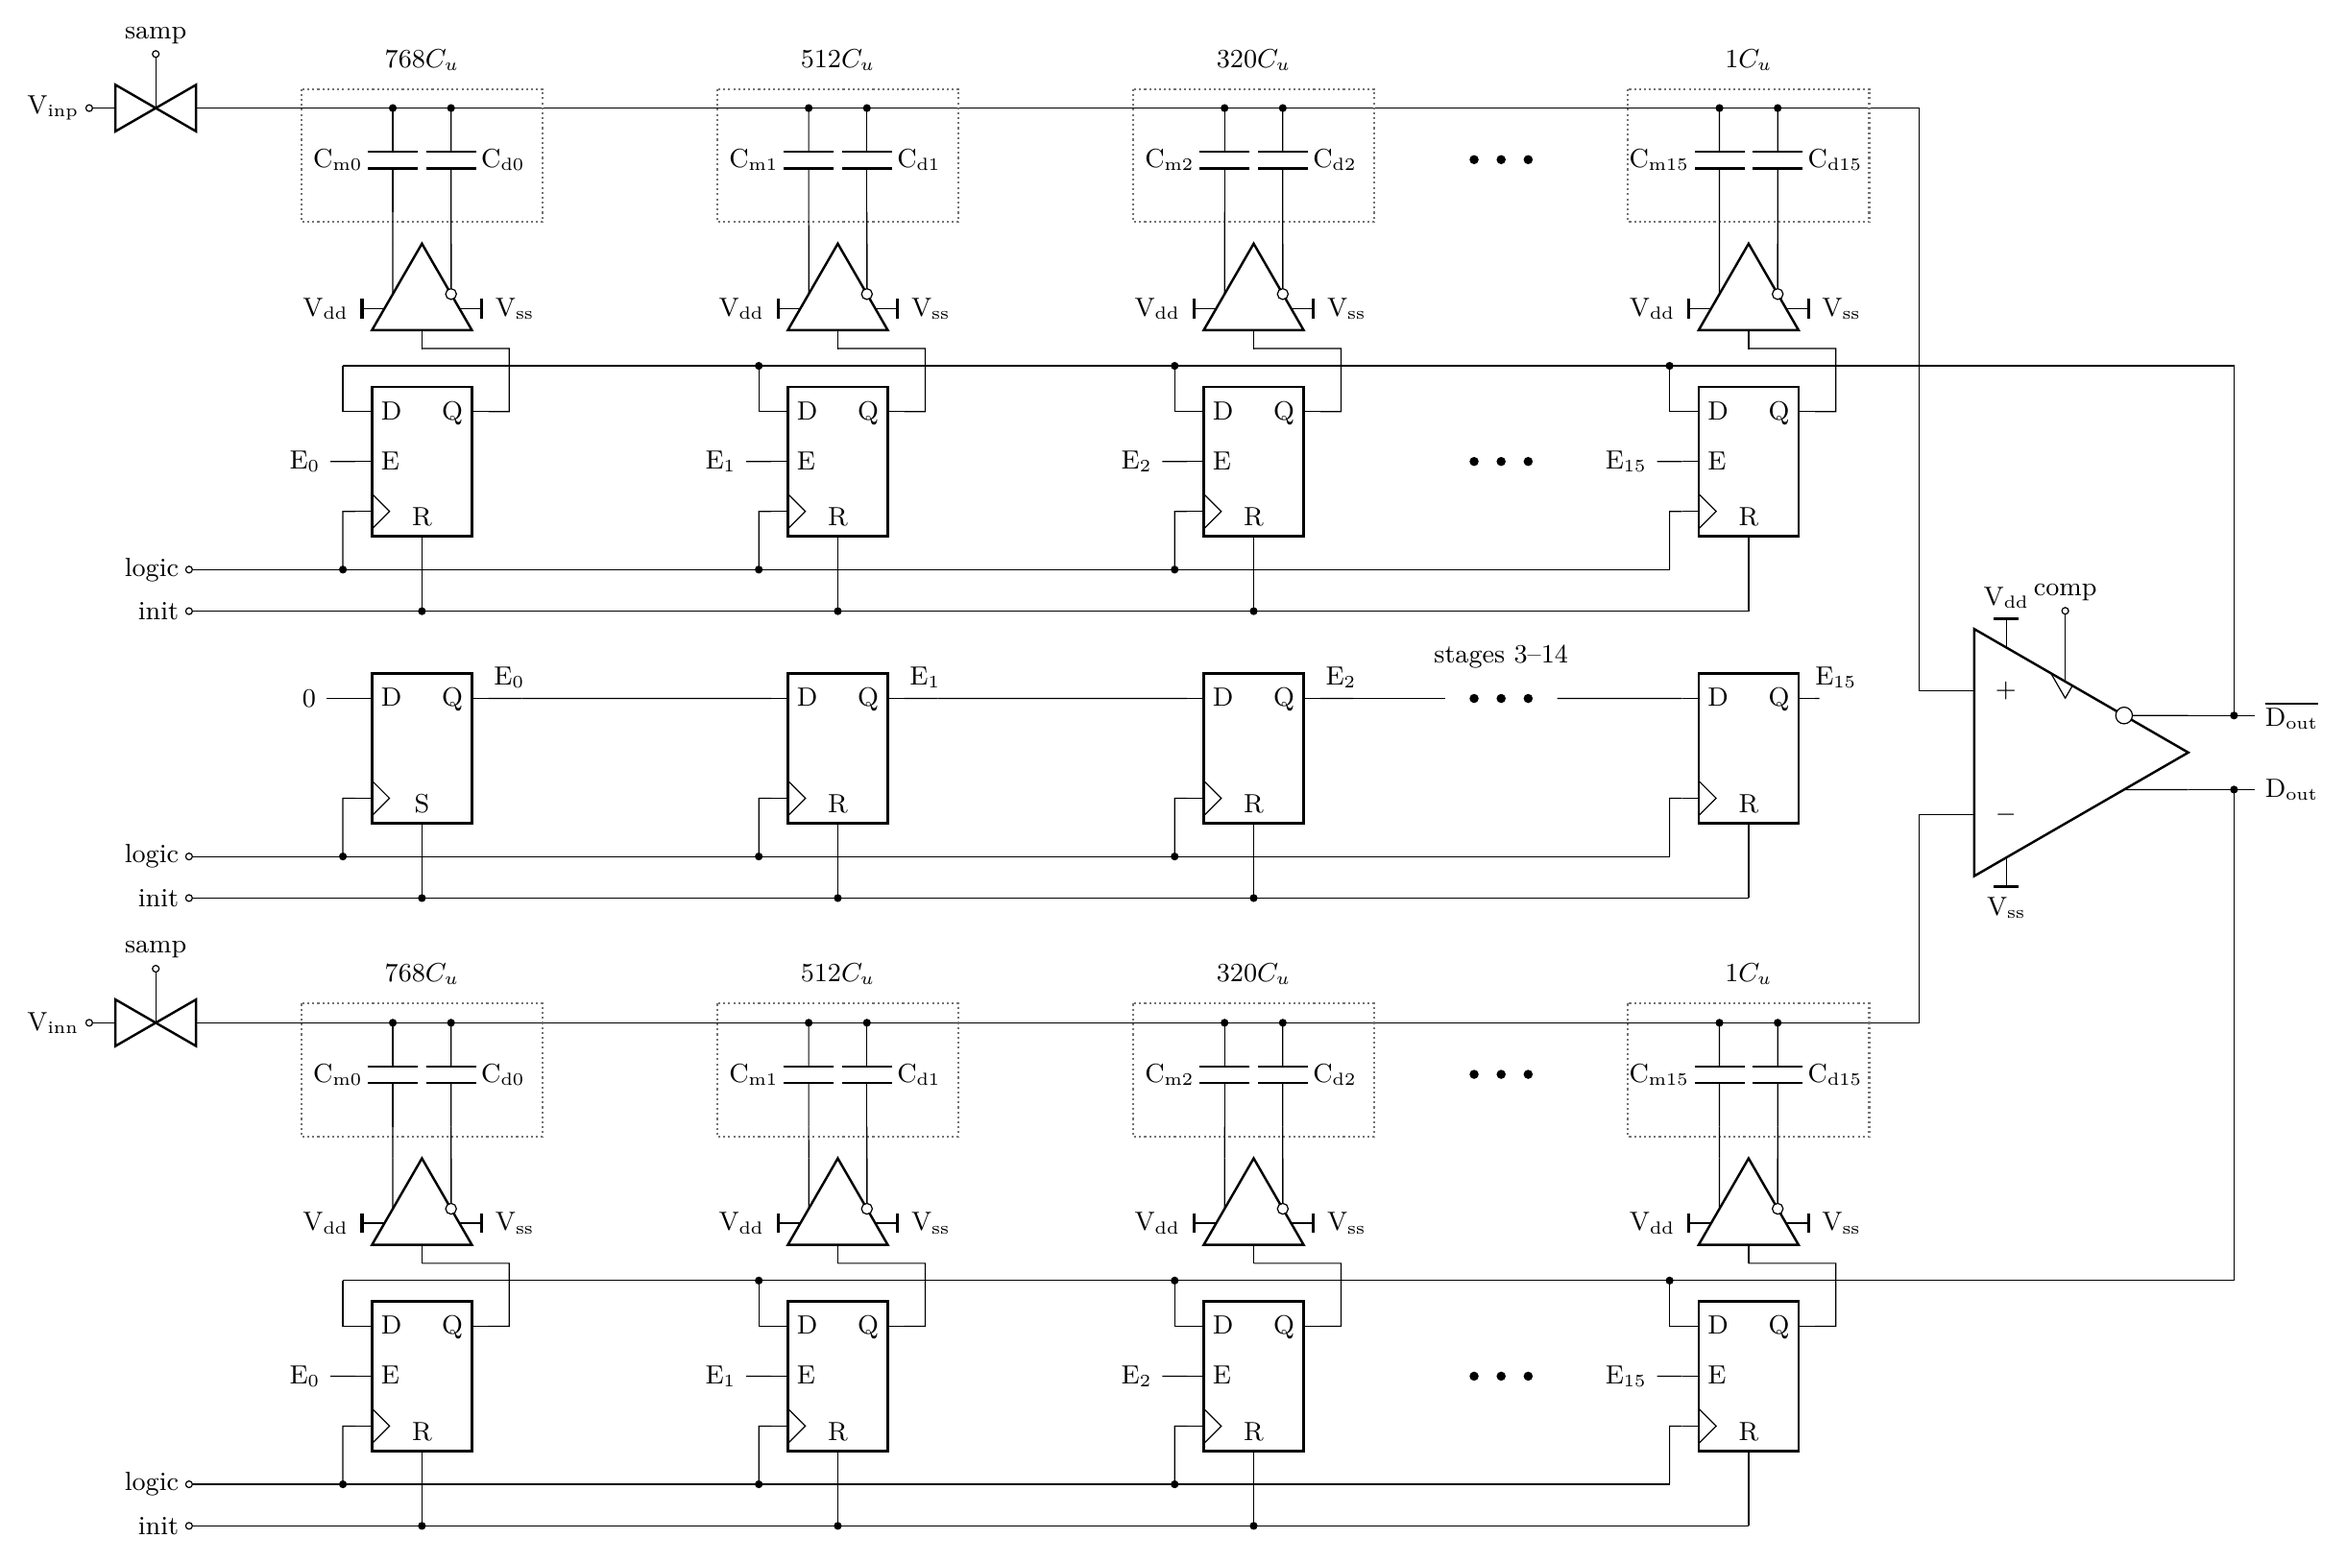
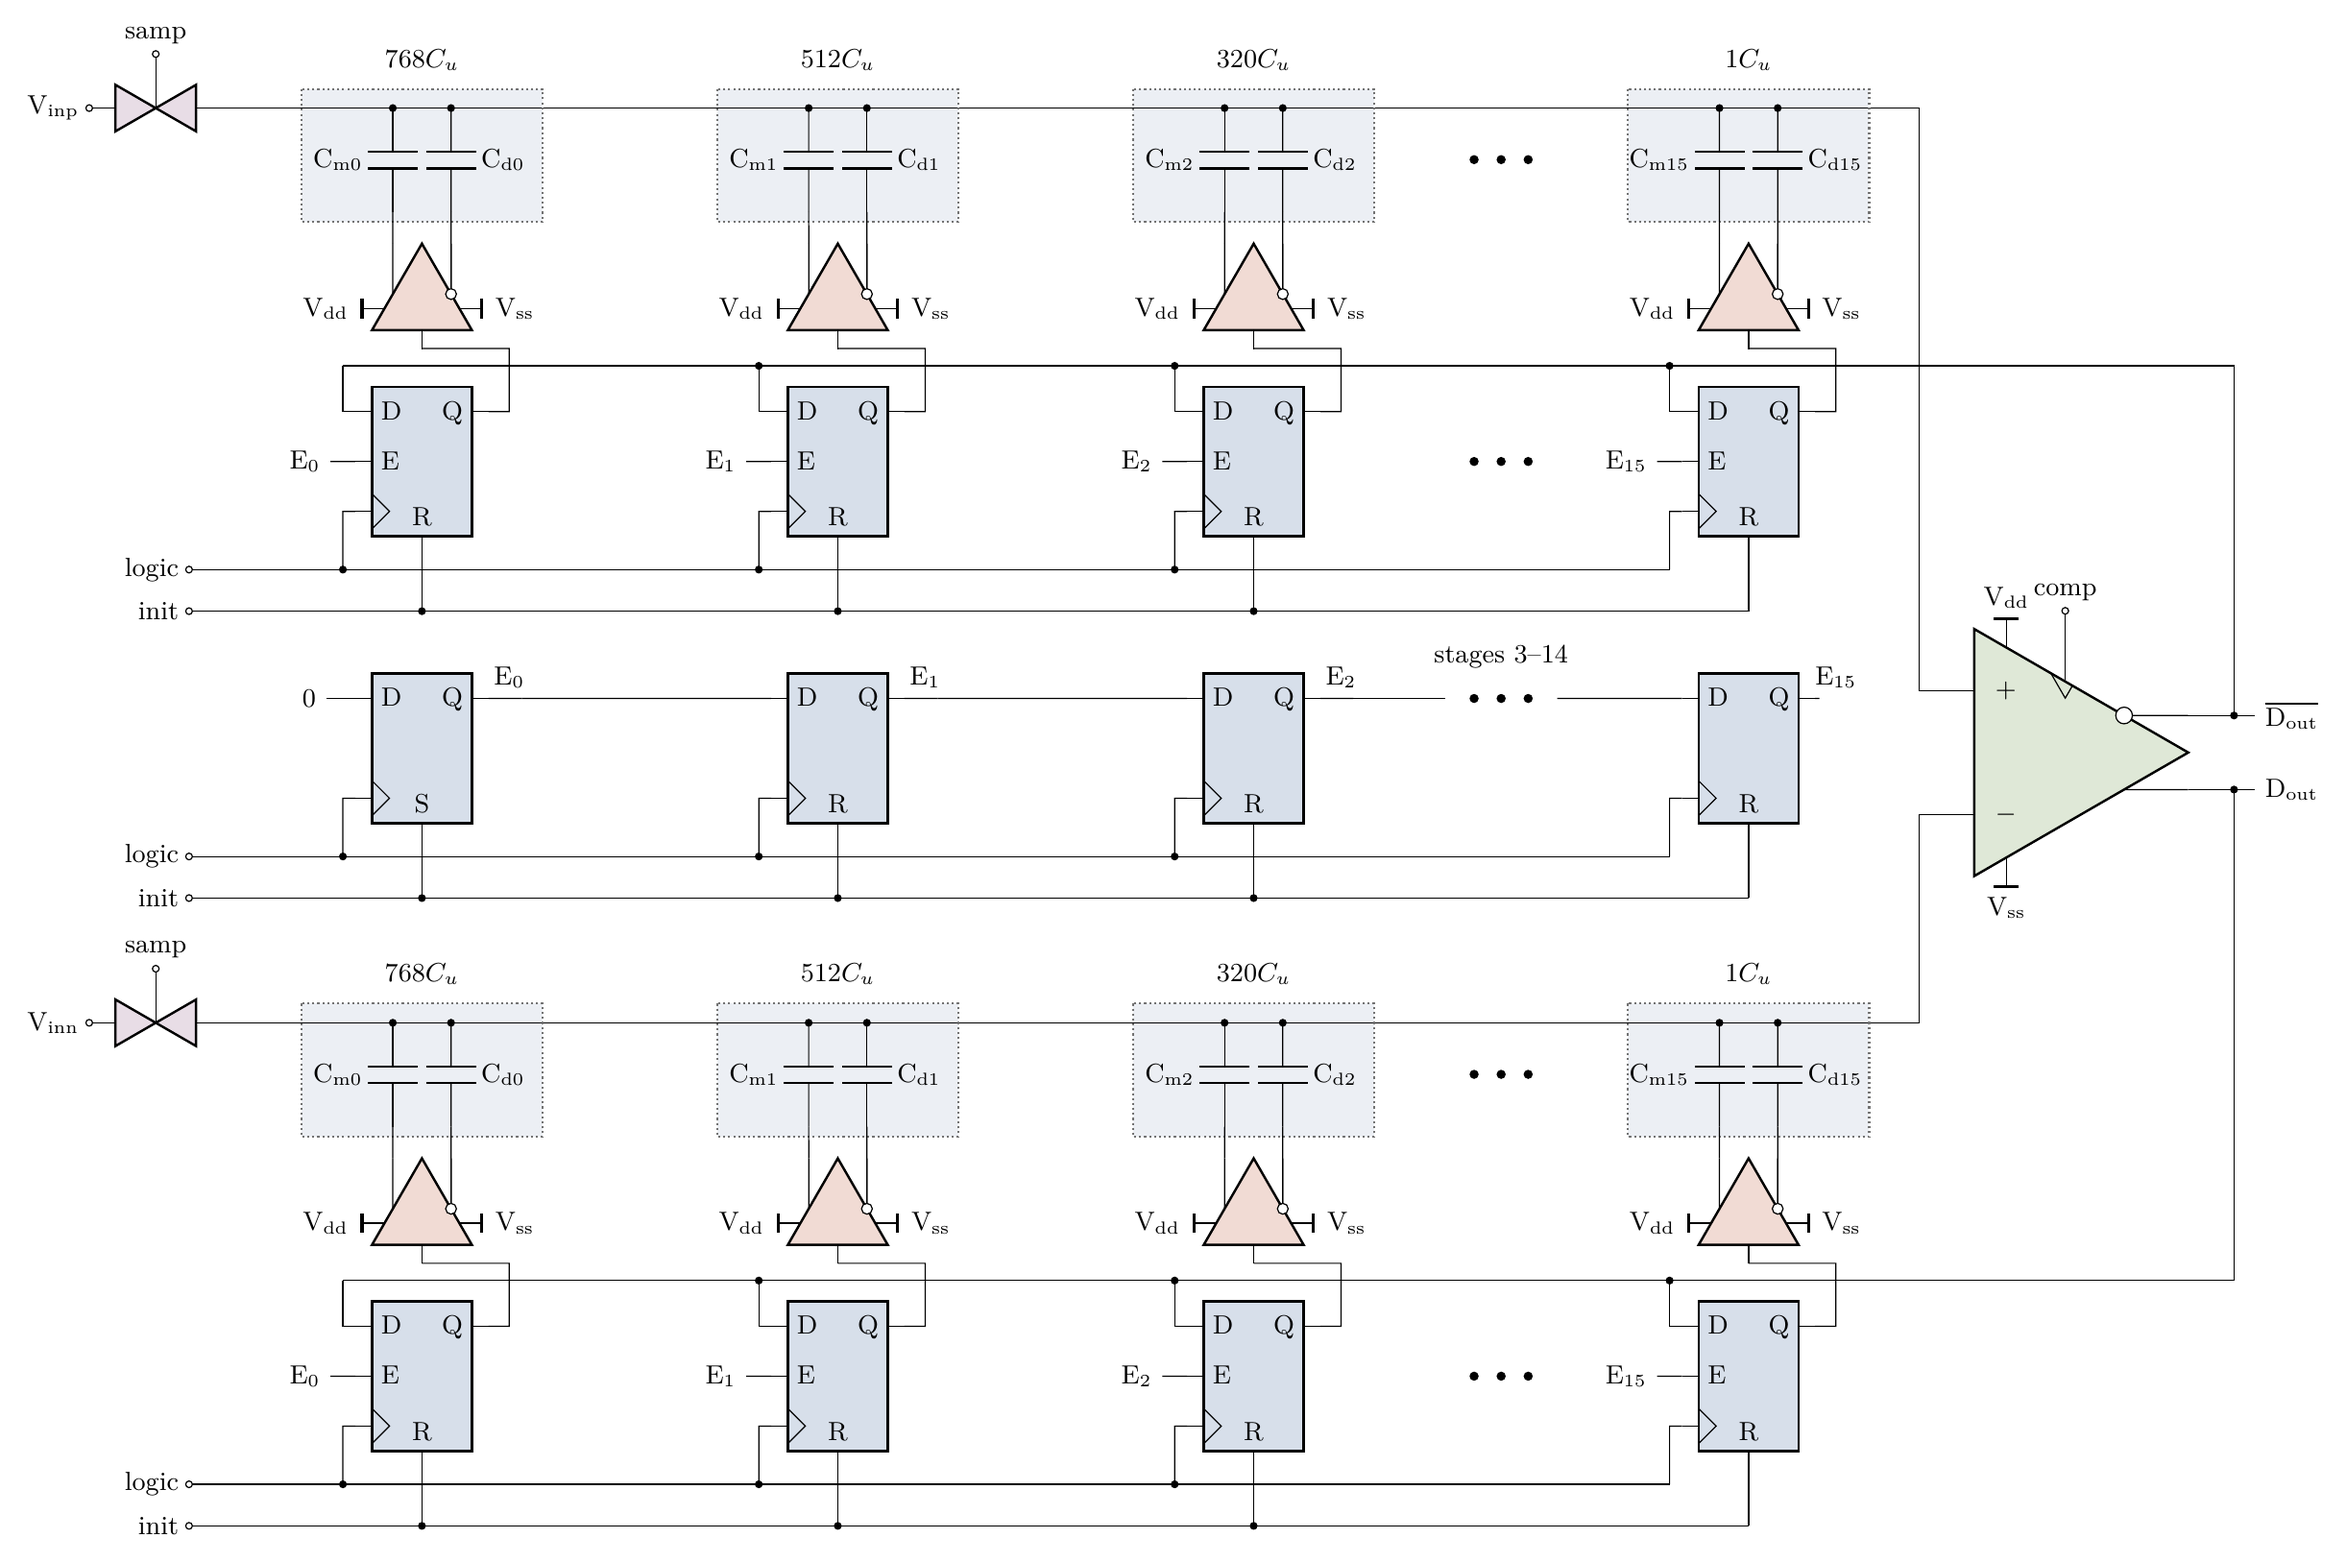
style(images): add Nord fills to ADC schematic blocks
- Color flip-flops blue, drivers orange, comparator green, and samplers purple.
- Shade capacitor cells light grey while retaining black wiring and labels.
- Rebuild and visually verify the PDF and PNG; document the palette.

diff --git a/docs/images/report/schematic_generation.md b/docs/images/report/schematic_generation.md
@@ -1,6 +1,6 @@
 # ADC schematic generation
 
-The schematic is authored in Circuitikz in [adc_architecture.tex](../../../build/summary_adc_figures/adc_architecture.tex), beside its generated PDF and PNG in `build/summary_adc_figures/`. It began from the repository's hand-drawn ADC diagram and follows the monochrome driver style in [daq_diagram.tex](../daq_diagram.tex). The report uses the PNG; the PDF preserves vector lines and text for publication.
+The schematic is authored in Circuitikz in [adc_architecture.tex](../../../build/summary_adc_figures/adc_architecture.tex), beside its generated PDF and PNG in `build/summary_adc_figures/`. It began from the repository's hand-drawn ADC diagram and follows the driver geometry in [daq_diagram.tex](../daq_diagram.tex). The report uses the PNG; the PDF preserves vector lines and text for publication.
 
 From the repository root, regenerate with:
 
@@ -29,3 +29,5 @@ The comparator is drawn at scale 3.3, positioned close to the array with shorten
 Flip-flop pin names retain Circuitikz’s default serif LaTeX font. The diagram does not override the document family to sans-serif; signal labels use the same small serif font as the pins, and electrical quantities use upright Roman math lettering. Only the capacitor-unit notation C_u remains italic.
 
 Symbol outline weight uses the default TikZ base stroke and Circuitikz class thickness multipliers. Do not apply a heavier global line width to the circuit: it also multiplies amplifier and flip-flop body outlines. Geometry is unchanged by this styling correction.
+
+Block fills use the Nord palette: blue at 25% for all flip-flops, orange at 30% for capacitor drivers, green at 35% for the comparator, purple at 30% for the sampling switches, and light Nord grey (#ECEFF4) inside the dotted capacitor cells. Cell fills are drawn on the background layer so they do not cover the top-plate bus. Wires, symbol outlines, and labels retain their existing dark strokes; inversion bubbles remain white. The build directory also retains adc_architecture_monochrome.tex as the preceding version.
